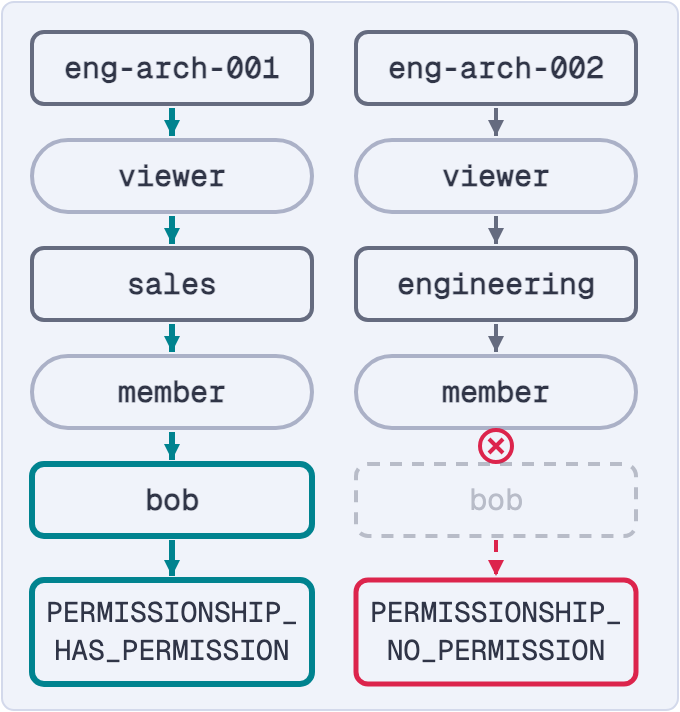
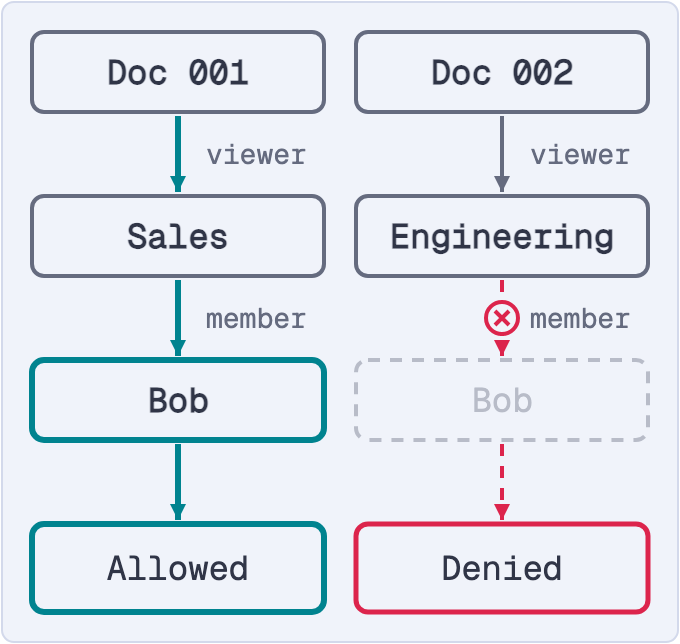
docs(spicedb tutorial): simplify Figures 1 and 2, apply review suggestions, introduce LookupResources

Changed region(s): [[0.0309, 0.0311, 0.525, 0.9627], [0.4941, 0.0311, 0.9574, 0.9627]]

diff --git a/qdrant-landing/content/documentation/headless/fine-grained-permissions-spicedb/permission-check/index.js b/qdrant-landing/content/documentation/headless/fine-grained-permissions-spicedb/permission-check/index.js
@@ -34,79 +34,59 @@ function open(w, h, cls, label) {
 
 const ROOT = 'qi-sp-check';
 const HOT = false;
-const LABEL = 'Two permission checks for user bob. For engineering-architecture-001, the path goes through viewer to the sales department and through member to bob, so the result is PERMISSIONSHIP_HAS_PERMISSION. For engineering-architecture-002, the path goes through viewer to the engineering department, but its member relation does not reach bob, so the result is PERMISSIONSHIP_NO_PERMISSION.';
+const LABEL = 'Two permission checks for Bob. Doc 001 has the Sales department as a viewer, and Bob is a member of Sales, so a path reaches Bob and access is allowed. Doc 002 has the Engineering department as a viewer, and Bob is not a member of Engineering, so there is no path and access is denied.';
 
-/* Two CheckPermission walks for user:bob. engineering-architecture-001 is
-   shared with sales#member, so a path reaches Bob. engineering-architecture-002
-   is shared with engineering#member, which does not include Bob. */
+/* Two CheckPermission walks for user:bob. Doc 001 is shared with
+   sales#member, so a path reaches Bob. Doc 002 is shared with
+   engineering#member, which does not include Bob. Full IDs and API result
+   names live in the surrounding text. */
 const CHECKS = [
-  { doc: 'eng-arch-001', full: 'document:engineering-architecture-001', dept: 'sales', ok: true },
-  { doc: 'eng-arch-002', full: 'document:engineering-architecture-002', dept: 'engineering', ok: false },
+  { doc: 'Doc 001', dept: 'Sales', ok: true },
+  { doc: 'Doc 002', dept: 'Engineering', ok: false },
 ];
 const strong = 'qi-label--strong qi-sp__label';
 function cross(x, y) {
   return `<circle cx="${x}" cy="${y}" r="8" class="qi-sp__cross"/>` +
     `<path d="M${x - 3.5} ${y - 3.5} L${x + 3.5} ${y + 3.5} M${x + 3.5} ${y - 3.5} L${x - 3.5} ${y + 3.5}" class="qi-sp__edge qi-sp__edge--deny" style="stroke-dasharray:none"/>`;
 }
+function bob(x, y, w, h, ok) {
+  return box(x, y, w, h, ok ? 'qi-sp__node--hot' : 'qi-sp__dashed qi-sp__dim') +
+    text(x + w / 2, y + h / 2 + 6, 'Bob', 17, ok ? strong : 'qi-sp__dim');
+}
+function result(x, y, w, h, ok) {
+  return box(x, y, w, h, ok ? 'qi-sp__node--hot' : 'qi-sp__node--deny') +
+    text(x + w / 2, y + h / 2 + 6, ok ? 'Allowed' : 'Denied', 17, 'qi-label--strong');
+}
 export function svg(narrow = false, id = ROOT) {
   if (narrow) {
-    let out = open(340, 356, 'qi-sp__narrow', LABEL) + defs(id) + frame(340, 356);
+    const W = 340, H = 322;
+    let out = open(W, H, 'qi-sp__narrow', LABEL) + defs(id) + frame(W, H);
     CHECKS.forEach((c, col) => {
-      const x = 16 + col * 162;
-      const cx = x + 70;
-      const k = c.ok ? 'hot' : '';
-      const ys = [16, 70, 124, 178, 232];
-      const items = [[c.doc, 6], ['viewer', 18], [c.dept, 6], ['member', 18], ['bob', 6]];
-      items.forEach(([label, rx], i) => {
-        const y = ys[i];
-        const last = i === items.length - 1;
-        const cls = last ? (c.ok ? 'qi-sp__node--hot' : 'qi-sp__dashed qi-sp__dim') : (rx > 6 ? 'qi-sp__node--rel' : '');
-        out += box(x, y, 140, 36, cls, rx) + text(cx, y + 23, label, 15, last && !c.ok ? 'qi-sp__dim' : strong);
-        if (i < items.length - 1) {
-          const broken = !c.ok && i === items.length - 2;
-          out += edge(id, `M${cx} ${y + 38} V${ys[i + 1] - 2}`, broken ? 'deny' : k);
-          if (broken) out += cross(cx, y + 45);
-        }
-      });
-      out += edge(id, `M${cx} 270 V288`, c.ok ? 'hot' : 'deny') +
-        box(x, 290, 140, 52, c.ok ? 'qi-sp__node--hot' : 'qi-sp__node--deny') +
-        text(cx, 311, 'PERMISSIONSHIP_', 14, 'qi-label--strong') +
-        text(cx, 330, c.ok ? 'HAS_PERMISSION' : 'NO_PERMISSION', 14, 'qi-label--strong');
+      const x = 16 + col * 162, w = 146, cx = x + w / 2, k = c.ok ? 'hot' : '';
+      out += box(x, 16, w, 40) + text(cx, 42, c.doc, 17, strong) +
+        edge(id, `M${cx} 58 V96`, k) + text(cx + 14, 82, 'viewer', 14, '', 'start') +
+        box(x, 98, w, 40) + text(cx, 124, c.dept, 17, strong) +
+        edge(id, `M${cx} 140 V178`, c.ok ? 'hot' : 'deny') + text(cx + 14, 164, 'member', 14, '', 'start') +
+        (c.ok ? '' : cross(cx, 159)) +
+        bob(x, 180, w, 40, c.ok) +
+        edge(id, `M${cx} 222 V260`, c.ok ? 'hot' : 'deny') +
+        result(x, 262, w, 44, c.ok);
     });
     return out + '</svg>';
   }
-  let out = open(760, 404, 'qi-sp__wide', LABEL) + defs(id) + frame(760, 404);
+  const W = 760, H = 236;
+  let out = open(W, H, 'qi-sp__wide', LABEL) + defs(id) + frame(W, H);
   CHECKS.forEach((c, row) => {
-    const y0 = 34 + row * 196;
-    const k = c.ok ? 'hot' : '';
-    const y = y0 + 40;
-    const mid = y + 24;
-    out += text(16, y0, `CHECK ${c.full} · view · user:bob`, 15, 'qi-sp__kicker', 'start') +
-      text(16, y0 + 30, 'DOCUMENT', 14, 'qi-sp__kicker', 'start') +
-      text(352, y0 + 30, 'DEPARTMENT', 14, 'qi-sp__kicker', 'start') +
-      text(668, y0 + 30, 'USER', 14, 'qi-sp__kicker', 'start') +
-      box(16, y, 170, 48) + text(101, mid + 6, c.doc, 18, strong) +
-      edge(id, `M188 ${mid} H212`, k) +
-      box(214, y, 110, 48, 'qi-sp__node--rel', 24) + text(269, mid + 6, 'viewer', 18, strong) +
-      edge(id, `M326 ${mid} H350`, k) +
-      box(352, y, 150, 48) + text(427, mid + 6, c.dept, 18, strong) +
-      edge(id, `M504 ${mid} H528`, k) +
-      box(530, y, 110, 48, 'qi-sp__node--rel', 24) + text(585, mid + 6, 'member', 18, strong);
-    if (c.ok) {
-      out += edge(id, `M642 ${mid} H666`, 'hot') +
-        box(668, y, 76, 48, 'qi-sp__node--hot') + text(706, mid + 6, 'bob', 18, strong) +
-        edge(id, `M706 ${y + 50} V${y + 76}`, 'hot') +
-        text(698, y + 68, 'path found', 14, '', 'end') +
-        box(400, y + 78, 344, 40, 'qi-sp__node--hot') +
-        text(572, y + 104, 'PERMISSIONSHIP_HAS_PERMISSION', 16, 'qi-label--strong');
-    } else {
-      out += edge(id, `M642 ${mid} H666`, 'deny') + cross(654, mid) +
-        box(668, y, 76, 48, 'qi-sp__dashed qi-sp__dim') + text(706, mid + 6, 'bob', 18, 'qi-sp__dim') +
-        edge(id, `M706 ${y + 50} V${y + 76}`, 'deny') +
-        text(698, y + 68, 'no path', 14, '', 'end') +
-        box(400, y + 78, 344, 40, 'qi-sp__node--deny') +
-        text(572, y + 104, 'PERMISSIONSHIP_NO_PERMISSION', 16, 'qi-label--strong');
-    }
+    const y0 = 34 + row * 108, y = y0 + 14, mid = y + 24, k = c.ok ? 'hot' : '';
+    out += text(24, y0, `Can Bob view ${c.doc}?`, 15, 'qi-sp__kicker', 'start') +
+      box(24, y, 130, 48) + text(89, mid + 6, c.doc, 18, strong) +
+      edge(id, `M156 ${mid} H254`, k) + text(205, mid - 13, 'viewer', 14) +
+      box(256, y, 150, 48) + text(331, mid + 6, c.dept, 18, strong) +
+      edge(id, `M408 ${mid} H506`, c.ok ? 'hot' : 'deny') + text(457, mid - 13, 'member', 14) +
+      (c.ok ? '' : cross(457, mid)) +
+      bob(508, y, 90, 48, c.ok) +
+      edge(id, `M600 ${mid} H622`, c.ok ? 'hot' : 'deny') +
+      result(624, y, 120, 48, c.ok);
   });
   return out + '</svg>';
 }

diff --git a/qdrant-landing/content/documentation/headless/fine-grained-permissions-spicedb/architecture/index.js b/qdrant-landing/content/documentation/headless/fine-grained-permissions-spicedb/architecture/index.js
@@ -34,61 +34,62 @@ function open(w, h, cls, label) {
 
 const ROOT = 'qi-sp-arch';
 const HOT = false;
-const LABEL = 'The user sends a query to the application, which runs five numbered steps. 1: it embeds the query with the embedding model. 2: it retrieves candidate chunks from Qdrant. 3: it checks permissions in SpiceDB with a CheckPermissionRequest and gets a CheckPermissionResponse back. 4: it builds the prompt using only the authorized chunks and calls the LLM. 5: it returns the response to the user.';
+const LABEL = 'The user asks the application a question. The application runs four numbered steps in order: 1, embed the query with the embedding model; 2, retrieve candidate documents from Qdrant; 3, check access in SpiceDB; 4, generate the answer with the LLM from the allowed documents only. Step 5 returns the answer to the user.';
 
-/* Request flow around the application: embedding model, Qdrant, and the LLM,
-   with SpiceDB checking the retrieved chunks before any reach the LLM. */
+/* The four services sit in one row in the order the application calls them,
+   so the reader sees that the SpiceDB check (3) comes before the LLM (4).
+   Data and API names live in the surrounding text, not on the arrows. */
 const strong = 'qi-label--strong qi-sp__label';
 function step(x, y, n) {
   return `<circle cx="${x}" cy="${y}" r="11" class="qi-sp__step"/>` +
     `<text x="${x}" y="${y + 5}" class="qi-label qi-sp__step-num" style="font-size:14px;text-anchor:middle">${n}</text>`;
 }
+/* Badge plus verb, centered on cx. Geist Mono advances 0.6em per glyph. */
+function stepLabel(cx, y, n, verb) {
+  const w = 28 + verb.length * 9;
+  const x0 = cx - w / 2;
+  return step(x0 + 11, y - 5, n) + text(x0 + 28, y, verb, 15, strong, 'start');
+}
+const SERVICES = [
+  ['Embedding', 'model', '', 'Embed'],
+  ['Qdrant', '', 'qi-sp__node--qdrant', 'Retrieve'],
+  ['SpiceDB', '', 'qi-sp__node--authz', 'Check access'],
+  ['LLM', '', '', 'Generate'],
+];
+function service(cx, y, w, h, [a, b, cls]) {
+  return box(cx - w / 2, y, w, h, cls) +
+    (b ? text(cx, y + h / 2 - 2, a, 17, strong) + text(cx, y + h / 2 + 17, b, 14)
+       : text(cx, y + h / 2 + 6, a, 18, strong));
+}
 export function svg(narrow = false, id = ROOT) {
   if (narrow) {
-    const W = 340, H = 640;
+    const W = 340, H = 500;
     let out = open(W, H, 'qi-sp__narrow', LABEL) + defs(id) + frame(W, H) +
       box(16, 16, 84, 44) + text(58, 44, 'User', 18, strong) +
-      edge(id, 'M38 62 V108') + edge(id, 'M78 108 V62') +
-      text(112, 80, '↓ query', 14, '', 'start') +
-      text(112, 98, '↑ response', 14, '', 'start') +
-      box(16, 110, 84, 514) +
-      `<text x="58" y="367" class="qi-label qi-label--strong qi-sp__label" style="font-size:18px;text-anchor:middle" transform="rotate(-90 58 367)">Application</text>`;
-    const rows = [
-      ['Embedding', 'model', '', ['query'], ['embedded', 'query']],
-      ['Qdrant', '', 'qi-sp__node--qdrant', ['embedded', 'query'], ['candidate', 'chunks']],
-      ['SpiceDB', '', 'qi-sp__node--authz', ['Check', 'Permission', 'Request'], ['Check', 'Permission', 'Response']],
-      ['LLM', '', '', ['query +', 'authorized', 'context +', 'prompt'], ['response']],
-    ];
-    rows.forEach(([a, b, cls, req, resp], i) => {
-      const y = [120, 250, 390, 550][i];
-      out += box(206, y, 118, 64, cls) +
-        (b ? text(265, y + 28, a, 16, strong) + text(265, y + 48, b, 15) : text(265, y + 38, a, 17, strong)) +
-        edge(id, `M102 ${y + 20} H204`) + edge(id, `M204 ${y + 44} H102`);
-      const above = req.map((_, j) => y + 12 - (req.length - 1 - j) * 16);
-      out += lines(153, above, req, 14, 'middle') +
-        lines(153, resp.map((_, j) => y + 62 + j * 16), resp, 14, 'middle') +
-        step(324, y, i + 1);
+      edge(id, 'M38 62 V104') + edge(id, 'M78 104 V62') +
+      step(122, 83, 5) + text(140, 88, 'Answer', 15, strong, 'start') +
+      box(16, 106, 84, 378) +
+      `<text x="58" y="295" class="qi-label qi-label--strong qi-sp__label" style="font-size:18px;text-anchor:middle" transform="rotate(-90 58 295)">Application</text>`;
+    SERVICES.forEach((s, i) => {
+      const y = 130 + i * 96;
+      out += stepLabel(265, y - 10, i + 1, s[3]) +
+        service(265, y, 118, 56, s) +
+        edge(id, `M102 ${y + 18} H204`) + edge(id, `M204 ${y + 38} H102`);
     });
-    return out + step(212, 93, 5) + '</svg>';
+    return out + '</svg>';
   }
-  const W = 760, H = 372;
+  const W = 760, H = 304;
   let out = open(W, H, 'qi-sp__wide', LABEL) + defs(id) + frame(W, H) +
-    box(16, 190, 110, 56) + text(71, 224, 'User', 20, strong) +
-    edge(id, 'M128 218 H168') + text(148, 210, 'query', 14) +
-    edge(id, 'M230 248 V330 H71 V250') + text(150, 322, 'response', 14) + step(150, 292, 5) +
-    box(170, 190, 574, 56) + text(457, 224, 'Application', 20, strong) +
-    box(180, 20, 150, 60) + text(255, 46, 'Embedding', 18, strong) + text(255, 68, 'model', 16) +
-    box(385, 20, 150, 60, 'qi-sp__node--qdrant') + text(460, 57, 'Qdrant', 18, strong) +
-    box(590, 20, 150, 60) + text(665, 57, 'LLM', 18, strong) +
-    edge(id, 'M210 188 V82') + lines(202, [112], ['query'], 14, 'end') +
-    edge(id, 'M300 82 V188') + lines(308, [154, 170], ['embedded', 'query'], 14, 'start') + step(255, 135, 1) +
-    edge(id, 'M415 188 V82') + lines(407, [104, 120], ['embedded', 'query'], 14, 'end') +
-    edge(id, 'M505 82 V188') + lines(513, [164, 180], ['candidate', 'chunks'], 14, 'start') + step(460, 135, 2) +
-    edge(id, 'M620 188 V82') + lines(612, [96, 112, 128, 144], ['query +', 'authorized', 'context +', 'prompt'], 14, 'end') + step(665, 116, 4) +
-    edge(id, 'M710 82 V188') + lines(702, [162], ['response'], 14, 'end') +
-    box(425, 300, 170, 56, 'qi-sp__node--authz') + text(510, 334, 'SpiceDB', 18, strong) +
-    edge(id, 'M455 248 V298') + lines(447, [270, 286], ['CheckPermission', 'Request'], 14, 'end') +
-    edge(id, 'M565 298 V248') + lines(573, [270, 286], ['CheckPermission', 'Response'], 14, 'start') + step(510, 273, 3);
+    box(16, 178, 92, 56) + text(62, 212, 'User', 20, strong) +
+    edge(id, 'M110 206 H134') +
+    edge(id, 'M180 236 V282 H62 V238') + step(98, 266, 5) + text(116, 271, 'Answer', 15, strong, 'start') +
+    box(136, 178, 608, 56) + text(440, 212, 'Application', 20, strong);
+  SERVICES.forEach((s, i) => {
+    const cx = 201 + i * 159;
+    out += stepLabel(cx, 30, i + 1, s[3]) +
+      service(cx, 44, 130, 56, s) +
+      edge(id, `M${cx - 16} 176 V102`) + edge(id, `M${cx + 16} 102 V176`);
+  });
   return out + '</svg>';
 }
 

diff --git a/qdrant-landing/content/documentation/tutorials-build-essentials/fine-grained-rag-permissions-qdrant-spicedb.md b/qdrant-landing/content/documentation/tutorials-build-essentials/fine-grained-rag-permissions-qdrant-spicedb.md
@@ -32,7 +32,7 @@ example_resources:
 
 A standard RAG pipeline answers questions using information retrieved from your documents. Qdrant stores their embeddings and associated metadata and finds relevant documents to provide as context to the language model. But without an authorization step, any user can get an answer from any document in the collection, including documents they aren't allowed to read. The [OWASP Top 10 for LLM Applications](https://genai.owasp.org/llm-top-10/) lists this kind of leak as Sensitive Information Disclosure.
 
-For simple cases, there are coarse-grained techniques of adding access control such as [payload filtering](/documentation/search/filtering/) on a department field. But this breaks down in real-world scenarios when access gets more specific. In the example this tutorial uses:
+For simple cases, there are coarse-grained techniques of adding access control such as [payload filtering](/documentation/search/filtering/) on a department field. But this becomes less practical in real-world scenarios when access gets more specific. In the example this tutorial uses:
 
 - Engineering shares **one** architecture document with Sales.
 - Bob, who works in Sales, has a one-off exception for one engineering guide.
@@ -42,8 +42,8 @@ You could add pseudo-departments, copy allow-lists into every point's payload, o
 
 This tutorial splits the job between two systems. **Qdrant finds** the documents that are relevant to a question, and **[SpiceDB](https://github.com/authzed/spicedb) decides** who can see them. Every Qdrant point carries a `doc_id` in its payload, SpiceDB stores who can view each `doc_id`, and an authorization step checks every retrieved document before any of them reach the LLM:
 
-{{< island path="content/documentation/headless/fine-grained-permissions-spicedb/architecture" width="340" ratio="340 / 640" title="Fig. 1: The request flow. The application checks the candidate chunks from Qdrant in SpiceDB (step 3) before it builds the prompt for the LLM (step 4)." >}}
-![The user sends a query to the application, which runs five numbered steps. 1: it embeds the query with the embedding model. 2: it retrieves candidate chunks from Qdrant. 3: it checks permissions in SpiceDB. 4: it builds the prompt using only the authorized chunks and calls the LLM. 5: it returns the response to the user.](/documentation/tutorials-build-essentials/fine-grained-rag-permissions-qdrant-spicedb/architecture-mobile.png)
+{{< island path="content/documentation/headless/fine-grained-permissions-spicedb/architecture" width="340" ratio="340 / 500" title="Fig. 1: The request flow. The application checks access in SpiceDB (step 3) before it sends anything to the LLM (step 4)." >}}
+![The user asks the application a question. The application runs four numbered steps in order: 1, embed the query with the embedding model; 2, retrieve candidate documents from Qdrant; 3, check access in SpiceDB; 4, generate the answer with the LLM from the allowed documents only. Step 5 returns the answer to the user.](/documentation/tutorials-build-essentials/fine-grained-rag-permissions-qdrant-spicedb/architecture-mobile.png)
 {{< /island >}}
 
 In this tutorial, you'll use SpiceDB to:
@@ -135,7 +135,7 @@ qdrant.upload_points(
 )
 ```
 
-Each point's payload includes a `doc_id`, like `engineering-architecture-001`. Qdrant point IDs must be unsigned integers or UUIDs, so the human-readable ID goes in the payload instead. SpiceDB uses the same ID for its `document` resources, and that shared ID is what connects the two systems. In this tutorial, each document is a single point. If you split documents into chunks, give every chunk its parent's `doc_id`, and the permission check stays the same.
+The `doc_id` in each Qdrant point's payload matches the document's resource ID in SpiceDB, such as `engineering-architecture-001`. The authorization node uses this shared ID to check access. This example stores one point per document. If you split a document into chunks, give every chunk the parent document's `doc_id`.
 
 On the SpiceDB side, the script writes a schema and the relationships between users, departments, and documents. This is explained in detail in the [How SpiceDB Decides Access](#how-spicedb-decides-access) section.
 
@@ -161,9 +161,11 @@ document:engineering-architecture-001#viewer@department:sales#member
 
 To check whether Bob can view `engineering-architecture-001`, SpiceDB walks from the document through `viewer` to the sales department, and through `member` to Bob. The path exists, so Bob can view it. `engineering-architecture-002` was never shared, so its only viewers are members of Engineering. There's no path to Bob, so the check fails:
 
-{{< island path="content/documentation/headless/fine-grained-permissions-spicedb/permission-check" width="340" ratio="340 / 356" title="Fig. 2: Two checks for `user:bob`. SpiceDB finds a path to Bob from `engineering-architecture-001`, but not from `engineering-architecture-002`." >}}
-![Two permission checks for user bob. For engineering-architecture-001, the path goes through viewer to the sales department and through member to bob, so the result is PERMISSIONSHIP_HAS_PERMISSION. For engineering-architecture-002, the path goes through viewer to the engineering department, but its member relation does not reach bob, so the result is PERMISSIONSHIP_NO_PERMISSION.](/documentation/tutorials-build-essentials/fine-grained-rag-permissions-qdrant-spicedb/permission-check-mobile.png)
+{{< island path="content/documentation/headless/fine-grained-permissions-spicedb/permission-check" width="340" ratio="340 / 322" title="Fig. 2: Two checks for Bob. A path through Sales reaches Bob from Doc 001, but no path reaches him from Doc 002." >}}
+![Two permission checks for Bob. Doc 001 has the Sales department as a viewer, and Bob is a member of Sales, so a path reaches Bob and access is allowed. Doc 002 has the Engineering department as a viewer, and Bob is not a member of Engineering, so there is no path and access is denied.](/documentation/tutorials-build-essentials/fine-grained-rag-permissions-qdrant-spicedb/permission-check-mobile.png)
 {{< /island >}}
+
+In the figure, Doc 001 is `engineering-architecture-001` and Doc 002 is `engineering-architecture-002`. Through the API, the first check returns `PERMISSIONSHIP_HAS_PERMISSION` and the second returns `PERMISSIONSHIP_NO_PERMISSION`.
 
 Per-document sharing, cross-department access, and one-off exceptions are all relationships like these. Role-Based Access Control or scoped tokens can't express them without a new role or token for every exception.
 
@@ -210,7 +212,7 @@ Every user also has a direct `viewer` relationship to each of the five public do
 
 Check out the SpiceDB documentation for more information on [schema](https://authzed.com/docs/spicedb/concepts/schema) and [relationships](https://authzed.com/docs/spicedb/concepts/relationships).
 
-Your application asks SpiceDB whether a user can view a document with the `CheckPermission` API, or with `CheckBulkPermissions` to check many documents in one request.
+Your application asks SpiceDB whether a user can view a document with the `CheckPermission` API, or with `CheckBulkPermissions` to check many documents in one request. It can also list every document a user can view with `LookupResources`.
 
 ## Choose Where to Check Permissions
 
